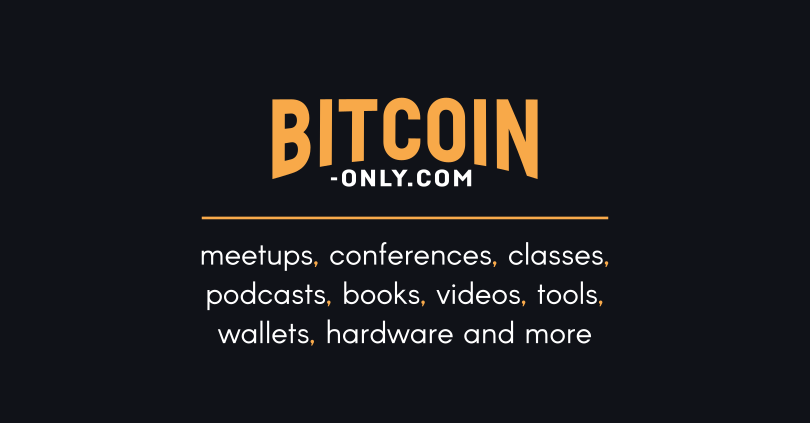
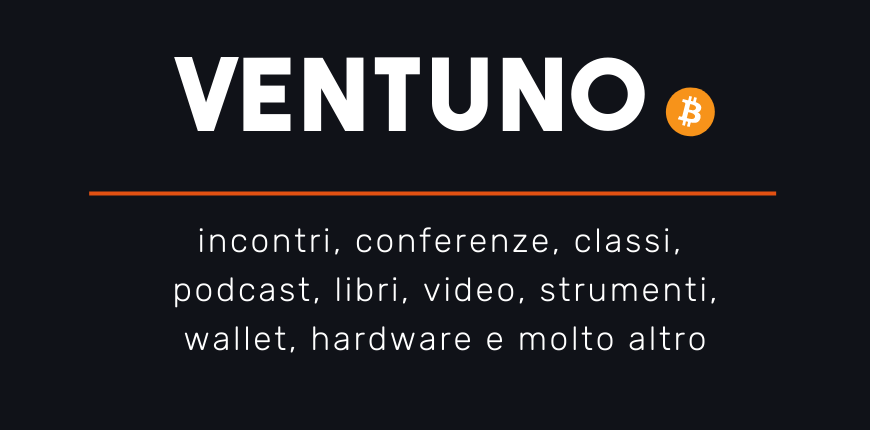
Changed reference from Bitcoin-only to Ventuno

Changed region(s): [[0.0926, 0.1229, 0.8951, 0.461], [0.1852, 0.4917, 0.8333, 0.8298]]

diff --git a/pages/listing-requirements.vue b/pages/listing-requirements.vue
@@ -16,11 +16,11 @@
 
 		<p>È sufficiente creare una issue sul repo GitHub seguendo questo <a href="https://github.com/ventunobtc/bitcoin-only/issues/new/choose" target="_blank">link</a> e cliccando il bottone "Content Suggestion - Get Started"  (vedi immagine sotto):</p>
 
-		<img src="/content-suggestion.png" alt="Suggest new content on Bitcoin-only">
+		<img src="/content-suggestion.png" alt="Suggest new content on Ventuno.space">
 
 		<p>Modificare le PAROLE IN MAIUSCOLO e cliccare "Sumbit New Issue"</p>
 
-		<img src="/content-suggestion-example.png" alt="Suggest new content example on Bitcoin-only">
+		<img src="/content-suggestion-example.png" alt="Suggest new content example on Ventuno.space">
 
 	</div>
 </template>
